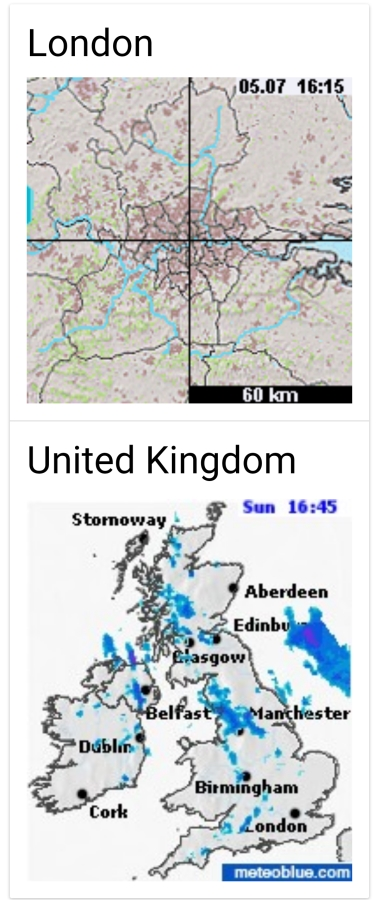
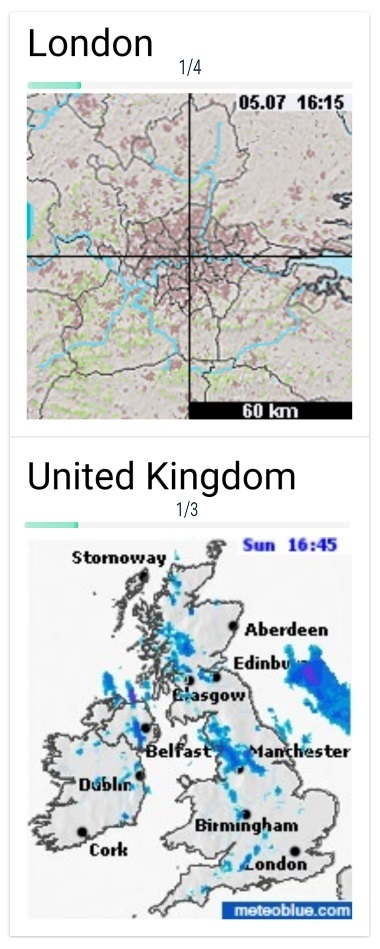
-  add ad - change bar time view style

Changed region(s): [[0.0289, 0.3422, 0.9842, 1.0], [0.0579, 0.0311, 0.9263, 0.3111]]

diff --git a/www/js/main/module/app.js b/www/js/main/module/app.js
@@ -5,7 +5,7 @@
 
 cloudApp = angular.module('cloudPrecipitation', ['ionic', 'ngCordova', 'gettext'])
 
-    .run(function ($ionicPlatform, gettextCatalog) {
+    .run(function ($ionicPlatform, gettextCatalog, $localstorage) {
 
         $ionicPlatform.ready(function () {
             // Hide the accessory bar by default (remove this to show the accessory bar above the keyboard for form inputs)
@@ -31,7 +31,31 @@ cloudApp = angular.module('cloudPrecipitation', ['ionic', 'ngCordova', 'gettext'
             } else {
                 console.error("navigator.globalization is undefined ");
             }
-            gettextCatalog.debug = true;
+            gettextCatalog.debug = false;
+
+            adbuddiz.setAndroidPublisherKey("76330e92-f3dc-4982-9040-3e5e196d5b98");
+            //TODO put key when app put on ios store
+            //adbuddiz.setIOSPublisherKey("TEST_PUBLISHER_KEY_IOS");
+            adbuddiz.cacheAds();
+
+            var showAd = $localstorage.get("showAd");
+
+            // First and second time, no ad. Then alternate ad show
+            if (showAd != null) {
+                showAd = !showAd;
+                $localstorage.set("showAd", showAd);
+                if (showAd) {
+                    //document.addEventListener("pause", showAdEvent, false);
+                    //document.addEventListener("backbutton", showAdEvent, false);
+                    document.addEventListener("resume", showAdEvent, false);
+                    function showAdEvent($event) {
+                        //FIXME on backbutton only on radar view
+                        console.log("on resume = " + $event);
+                        adbuddiz.showAd();
+                    }
+                    //showAdEvent();
+                }
+            }
             // Load the strings automatically during initialization.
 //            gettextCatalog.setStrings("fr", {
 //                "Hello": "Hallo",
@@ -45,7 +69,7 @@ cloudApp = angular.module('cloudPrecipitation', ['ionic', 'ngCordova', 'gettext'
     })
     .constant('BASE_URL_SEARCH_CITY', 'https://www.meteoblue.com/en/server/search/query3?query=')
     .constant('BASE_URL_GET_RADAR', 'https://www.meteoblue.com/en/weather/forecast/week/')
-    .constant('TIME_OUT', 10000)
+    .constant('TIME_OUT', 2000)
 
     .config(function ($stateProvider, $urlRouterProvider, $compileProvider) {
         // Do not work, used for windowsphone ?

diff --git a/www/templates/radar/radarView.html b/www/templates/radar/radarView.html
@@ -21,8 +21,8 @@
 
             <div class="item" ng-show="radarCtrl.radarCity != null">
                 <h1>{{radarCtrl.city.name}}</h1>
-                <meter value="{{radarCtrl.indexCityIncremental}}" max="{{radarCtrl.radar.city.length}}"></meter>
                 <p class="center value-meter-bar">{{radarCtrl.indexCity + 1}}/{{radarCtrl.radar.city.length}}</p>
+                <meter value="{{radarCtrl.indexCityIncremental}}" max="{{radarCtrl.radar.city.length}}"></meter>
                 <div id="radar-city" class="item-image" ng-click="radarCtrl.pause()">
                     <img ng-src="{{radarCtrl.radarCity}}" alt="Radar City"><br/>
                     <img class="img-pause center transparent" src="img/radar/pause.png" ng-class="{'animate-pause fadeIn': radarCtrl.isPaused}"><br/>
@@ -32,8 +32,8 @@
 
             <div class="item" ng-show="radarCtrl.radarCountry != null">
                 <h1>{{radarCtrl.city.country}}</h1>
-                <meter value="{{radarCtrl.indexCountryIncremental}}" max="{{radarCtrl.radar.country.length}}"></meter>
                 <p class="center value-meter-bar">{{radarCtrl.indexCountry + 1}}/{{radarCtrl.radar.country.length}}</p>
+                <meter value="{{radarCtrl.indexCountryIncremental}}" max="{{radarCtrl.radar.country.length}}"></meter>
                 <div id="radar-country" class="item-image" ng-click="radarCtrl.pause()">
                     <img ng-src="{{radarCtrl.radarCountry}}" alt="Radar Country"><br/>
                     <img class="img-pause center transparent" src="img/radar/pause.png" ng-class="{'animate-pause fadeIn': radarCtrl.isPaused}"><br/>

diff --git a/www/templates/intro/intro.html b/www/templates/intro/intro.html
@@ -75,6 +75,22 @@
 
             <ion-slide>
                 <div class="card">
+                    Legende
+                </div>
+                <div class="card">
+                    <div class="item image-intro-raining-center">
+                        <img src="img/intro/rain2.png">
+                    </div>
+                </div>
+                <div class="card">
+                    <div class="item image-intro-raining-right">
+                        <img src="img/intro/rain3.png">
+                    </div>
+                </div>
+            </ion-slide>
+
+            <ion-slide>
+                <div class="card">
                     <div class="item item-divider">
                         <h2 class="center" translate>Save your favourite cities</h2>
                     </div>

diff --git a/www/css/style.css b/www/css/style.css
@@ -15,13 +15,15 @@
 
 /** Value Color **/
 .value-meter-bar {
-    margin-top: -19px;
+    margin-top: -15px;
     color: #2C3E50 !important;
+    margin-bottom: -15px !important;
 }
 
 meter {
     -webkit-appearance: none;
     width: 100%;
+    height: 5px;
     /*border: 1px solid #ccc;*/
     /*border-radius: 7px; /!*5px; /!* 10px *!/*/
 }
@@ -33,8 +35,9 @@ meter::-webkit-meter-bar {
     background: none; /* Required to get rid of the default background property */
     background-color: whiteSmoke;
 
-    border: 1px solid #ccc;
-    border-radius: 7px; /* 10px */
+    border: 0px solid;
+    /*border: 1px solid #ccc;*/
+    /*border-radius: 7px; /!* 10px *!/*/
     /*box-shadow: 0 5px 5px -5px #333 inset;*/
 }
 

diff --git a/www/js/main/controllers/AppController.js b/www/js/main/controllers/AppController.js
@@ -3,6 +3,16 @@
  */
 'use strict';
 
-cloudApp.controller('AppController', function($scope) {
+cloudApp.controller('AppController', ['$scope', '$ionicHistory', '$localstorage', function($scope, $ionicHistory, $localstorage) {
 
-})
+    $scope.goBack = function() {
+        var showAd = $localstorage.get("showAd");
+        if (showAd == null) {
+            $localstorage.set("showAd", true);
+        } else if (showAd) {
+            adbuddiz.showAd();
+        }
+        $ionicHistory.goBack();
+    };
+
+}]);

diff --git a/www/js/radar/controllers/RadarController.js b/www/js/radar/controllers/RadarController.js
@@ -75,7 +75,7 @@ cloudApp.controller('RadarController', ['$scope', '$stateParams', '$state', '$in
                     _this.indexCountry = 0;
                     _this.indexCountryIncremental = 0;
                 }
-                console.log("radar ity " + _this.indexCity);
+                console.log("radar city " + _this.indexCity);
 
                 // Get radar to show
                 _this.radarCity = _this.radar.city[_this.indexCity];

diff --git a/www/js/main/controllers/RootController.js b/www/js/main/controllers/RootController.js
@@ -10,10 +10,10 @@ cloudApp.controller('RootController', ['$scope', '$state', '$ionicHistory', '$lo
         disableBack: true
     });
 
-    if ($localstorage.get("initDone") == null) {
-        $state.go('app.intro');
-    } else {
+//    if ($localstorage.get("initDone") == null) {
+//        $state.go('app.intro');
+    //} else {
         $state.go('app.cities');
-    }
+    //}
 
 }]);

diff --git a/www/js/intro/controllers/IntroController.js b/www/js/intro/controllers/IntroController.js
@@ -19,6 +19,9 @@ cloudApp.controller('IntroController', ['$scope', '$ionicHistory', '$localstorag
             $ionicSlideBoxDelegate.slide(index);
         };
 
+        /**
+         * To scroll to the start button in landscape view
+         */
         this.scrollBottom = function () {
             $location.hash(0);
             $ionicScrollDelegate.anchorScroll(true);

diff --git a/www/templates/menu.html b/www/templates/menu.html
@@ -1,7 +1,7 @@
 <ion-side-menus enable-menu-with-back-views="false">
   <ion-side-menu-content>
     <ion-nav-bar class="bar-calm">
-      <ion-nav-back-button>
+      <ion-nav-back-button ng-click="goBack()">
       </ion-nav-back-button>
 
       <ion-nav-buttons side="left">
